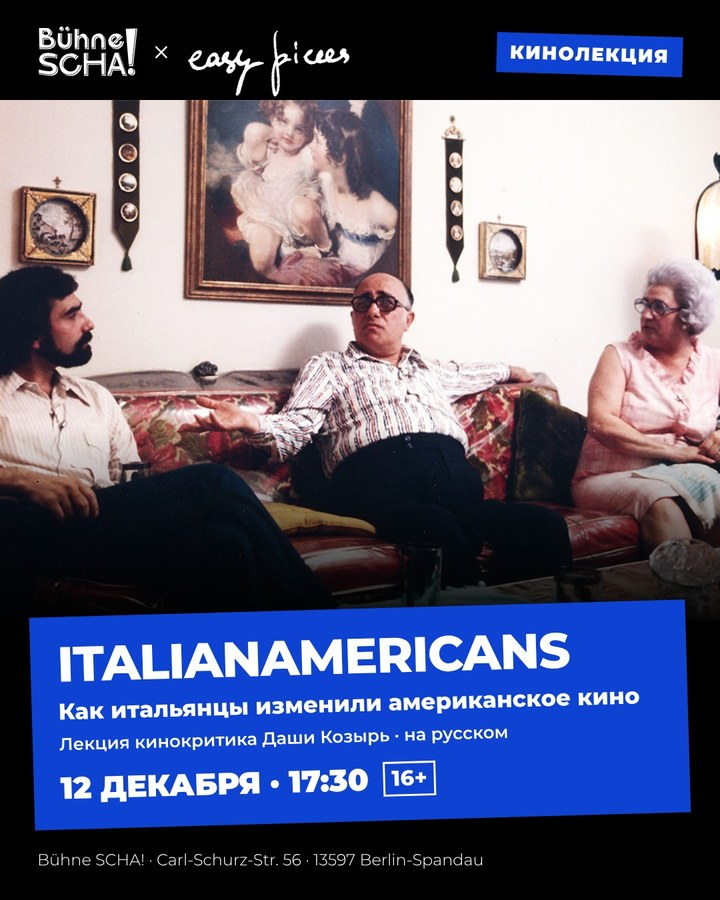
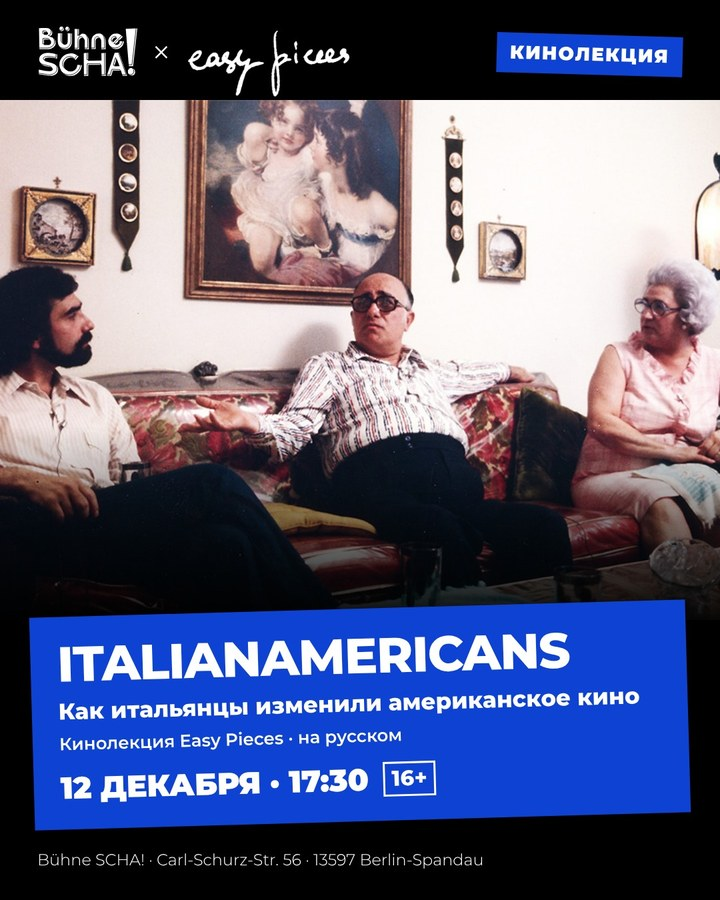
Кинолекция: без имени лектора
Claude-Session: https://claude.ai/code/session_01RnKSTGKpZb11p34JeQWmA2

Changed region(s): [[0.0611, 0.8089, 0.7028, 0.84]]

diff --git a/index.html b/index.html
@@ -48,7 +48,7 @@ footer a{color:var(--fg)}
 <article class="ev">
 <a class="pic" href="https://fienta.com/ru/kinolekciya-easy-pieces" target="_blank" rel="noopener"><img src="0_italianamericans.jpg" alt="Italianamericans" loading="lazy" width="720" height="900"></a>
 <div class="info"><div class="meta"><span class="date">12 декабря · 17:30</span><span class="age">16+</span></div>
-<h2>Italianamericans</h2><p class="sub">Кинолекция · Bühne SCHA! × Easy Pieces · лекция кинокритика Даши Козырь о том, как итальянцы изменили американское кино</p><p class="lang">Язык: русский</p>
+<h2>Italianamericans</h2><p class="sub">Кинолекция Easy Pieces о том, как итальянцы изменили американское кино</p><p class="lang">Язык: русский</p>
 <a class="buy" href="https://fienta.com/ru/kinolekciya-easy-pieces" target="_blank" rel="noopener">Купить билет <span aria-hidden="true">→</span></a></div></article>
 <article class="ev">
 <a class="pic" href="https://fienta.com/improvizacionnyy-spektakl-fantaziya-dlya-detey-v-buhne-scha" target="_blank" rel="noopener"><img src="1_fantazia.jpg" alt="Фантазия" loading="lazy" width="720" height="900"></a>
